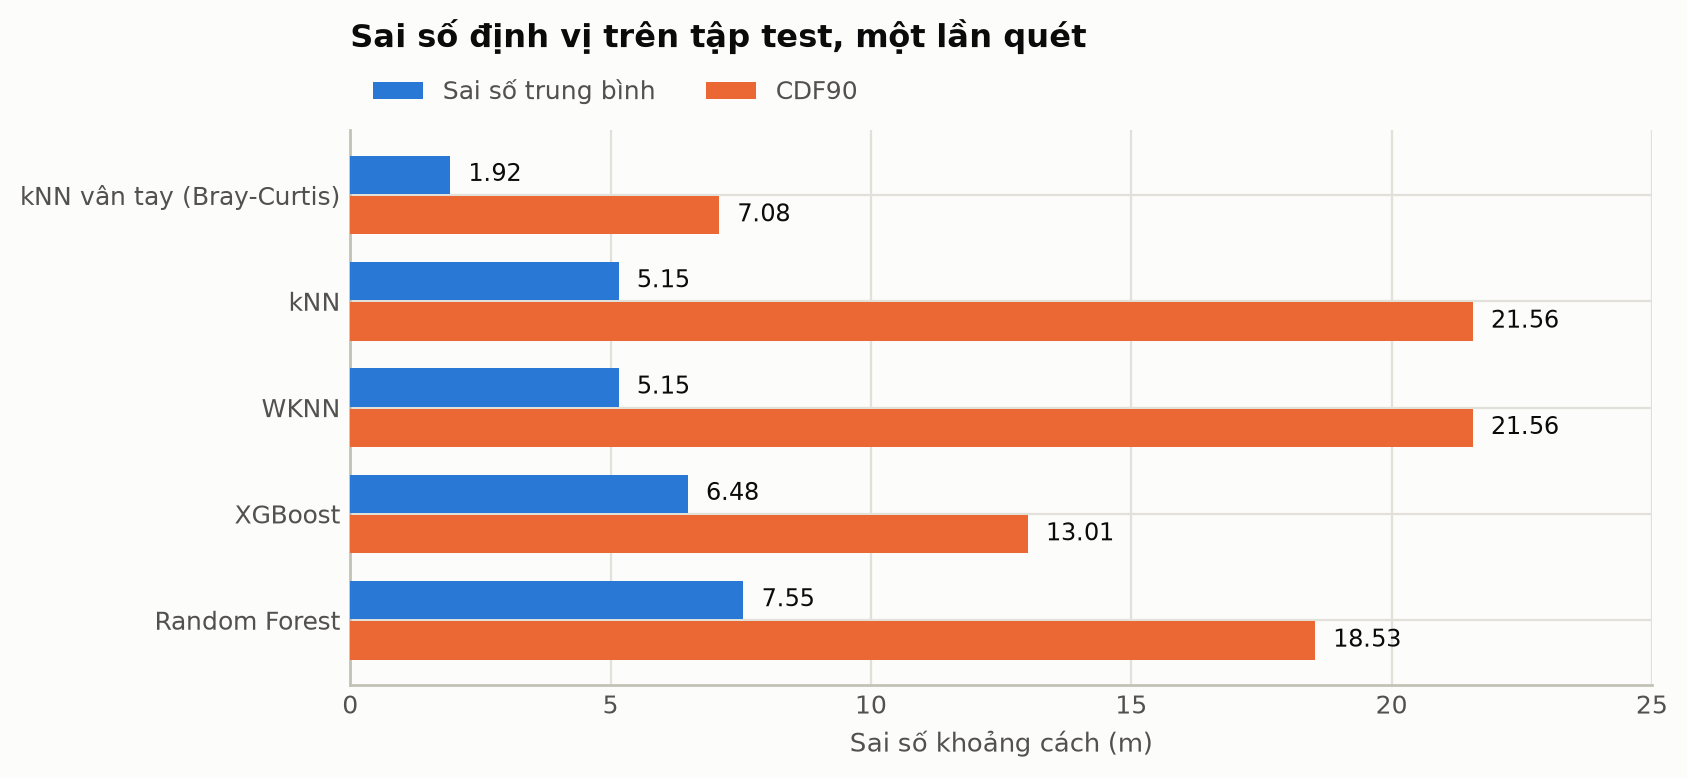
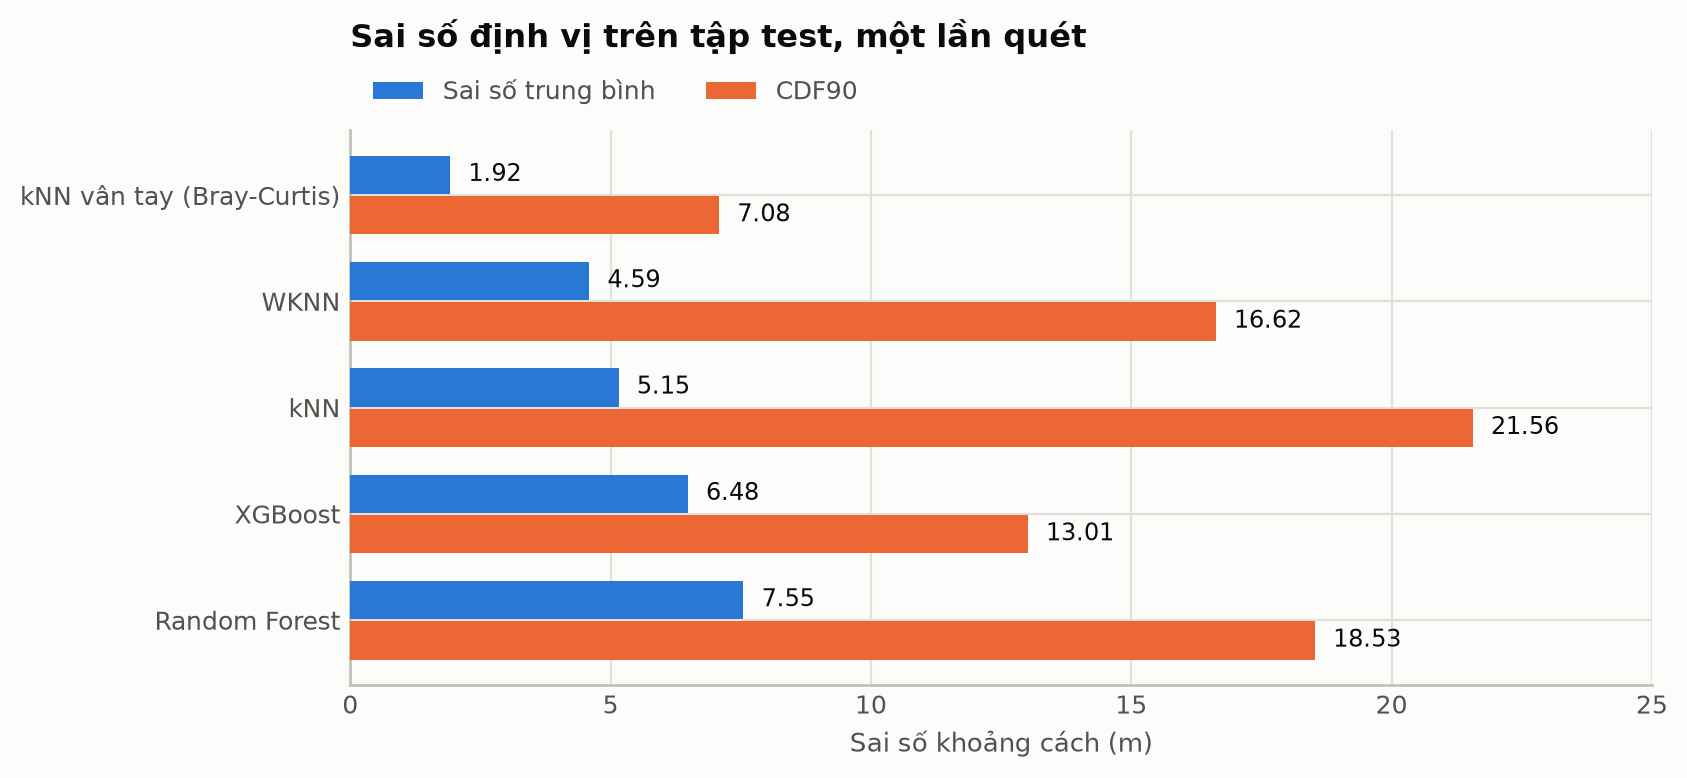
refactor(ml): nới lưới k cho hai mô hình cơ sở
Lưới của kNN bắt đầu từ k=3 và tối ưu rơi đúng vào biên dưới, nghĩa là
chưa biết k nhỏ hơn có tốt hơn không. Nới xuống k=1 rồi chạy lại: kNN
giữ nguyên 5,15 m nhưng nay biết chắc cực trị nằm trong lưới chứ không
nằm ngoài.

Lưới của WKNN thì bỏ hẳn k=1. Với một láng giềng duy nhất thì trọng số
không có gì để cân, nên WKNN ở k=1 chính là kNN ở k=1 — cùng tham số,
cùng dự đoán, cùng sai số tới từng chữ số. Giữ nó lại là để bảng so sánh
có hai dòng mà thực chất chỉ đo một mô hình. Sau khi bỏ, WKNN chọn k=2
và sai số xuống 4,59 m, tách bạch khỏi kNN.

Chạy lại toàn bộ năm mô hình để đồng bộ artifact. Bốn mô hình còn lại
cho ra tệp giống hệt từng byte, chỉ WKNN đổi — đúng như mong đợi khi chỉ
động vào lưới của nó.

diff --git a/ml/models/knn.py b/ml/models/knn.py
@@ -3,9 +3,13 @@
 Dự đoán toạ độ bằng trung bình cộng toạ độ của k mẫu huấn luyện có vân tay RSSI
 gần nhất. Không có tham số nào được học; toàn bộ tập train chính là mô hình.
 
-Đây là baseline bắt buộc: nếu XGBoost không thắng được kNN thì mọi lập luận về
-"cải tiến bằng học máy" đều rỗng. Tài liệu thiết kế đặt mục tiêu XGBoost phải
-thấp hơn baseline ít nhất 10-20% sai số trung bình.
+Đây là baseline bắt buộc, và nó đã bác bỏ giả thiết ban đầu của đồ án: XGBoost
+KHÔNG thắng được kNN (6,48 m so với 5,15 m), trong khi tài liệu thiết kế đặt
+mục tiêu thấp hơn baseline 10-20%. Nguyên nhân nằm ở dữ liệu chứ không ở việc
+chỉnh tham số — chỉ có 39 toạ độ khác nhau vì mẫu thu đúng tại các điểm tham
+chiếu, nên bài toán gần với phân lớp hơn là hồi quy liên tục, mà đó lại là chỗ
+hồi quy cây quyết định yếu nhất. Kết quả này là một phần nội dung của đồ án,
+không phải lỗi cần giấu: xem mục 2.4.1 của `docs/Phan_Tich_Thiet_Ke_He_Thong.md`.
 """
 
 from __future__ import annotations

diff --git a/ml/models/wknn.py b/ml/models/wknn.py
@@ -16,9 +16,15 @@ TEN = "WKNN"
 
 EPS = 1e-6
 
-# Có cả k=1 và k=2: lưới cũ bắt đầu từ 3 và tối ưu rơi đúng vào biên dưới đó.
+# KHÔNG có k=1, khác với lưới của kNN.
+#
+# Với một láng giềng duy nhất thì trọng số không có gì để cân, nên WKNN ở k=1
+# chính là kNN ở k=1 — cùng tham số, cùng dự đoán, cùng sai số tới từng chữ số.
+# Để k=1 trong lưới thì cả hai mô hình cùng chọn nó và bảng so sánh có hai dòng
+# trùng khít, tức mất một mô hình cơ sở mà không ai thấy. Bắt đầu từ k=2 để
+# WKNN luôn thật sự là WKNN.
 LUOI_THAM_SO = {
-    "n_neighbors": [1, 2, 3, 5, 7, 9, 11],
+    "n_neighbors": [2, 3, 5, 7, 9, 11],
     "metric": ["euclidean", "manhattan"],
 }
 
